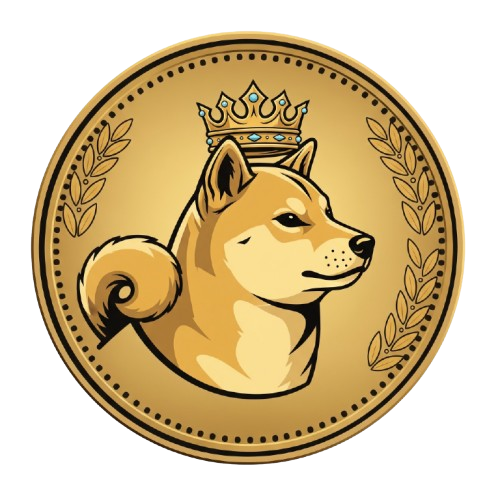
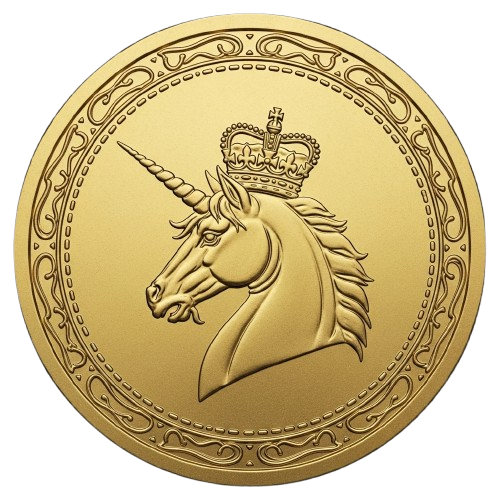
taste version

diff --git a/src/components/pages/create/CreateToken.tsx b/src/components/pages/create/CreateToken.tsx
@@ -6,10 +6,9 @@ import { ChevronLeft, ChevronRight, Upload, Copy, RefreshCw, X } from "lucide-re
 
 const AI_TOKEN_DATA = [
   {
-    name: "DogeRoyal",
-    symbol: "DRL",
-    description:
-      "DogeRoyal is the meme cryptocurrency that combines the playful and community-driven spirit of doges with a touch of royalty. Our symbol represents nobility and loyalty, the pillars of our community. Join the DogeRoyal kingdom and be part of the real fun in the crypto world!",
+    name: "UniRoyal",
+    symbol: "UNI",
+    description: "UniRoyal is the legendary meme coin of the crypto realm. With its majestic horn and a royal crown, our coin represents the magic of limitless potential and a truly enchanted community. Join us and make your portfolio a thing of legend!",
     image: "/IA/1/1.png",
   },
   {

diff --git a/public/IA/1/1.js b/public/IA/1/1.js
@@ -1,5 +1,5 @@
 const obj = {
-  name: "DogeRoyal",
-  symbol: "DRL",
-  description: "DogeRoyal is the meme cryptocurrency that combines the playful and community-driven spirit of doges with a touch of royalty. Our symbol represents nobility and loyalty, the pillars of our community. Join the DogeRoyal kingdom and be part of the real fun in the crypto world!"
+  "name": "UniRoyal",
+  "symbol": "UNI",
+  "description": "UniRoyal is the legendary meme coin of the crypto realm. With its majestic horn and a royal crown, our coin represents the magic of limitless potential and a truly enchanted community. Join us and make your portfolio a thing of legend!"
 }
